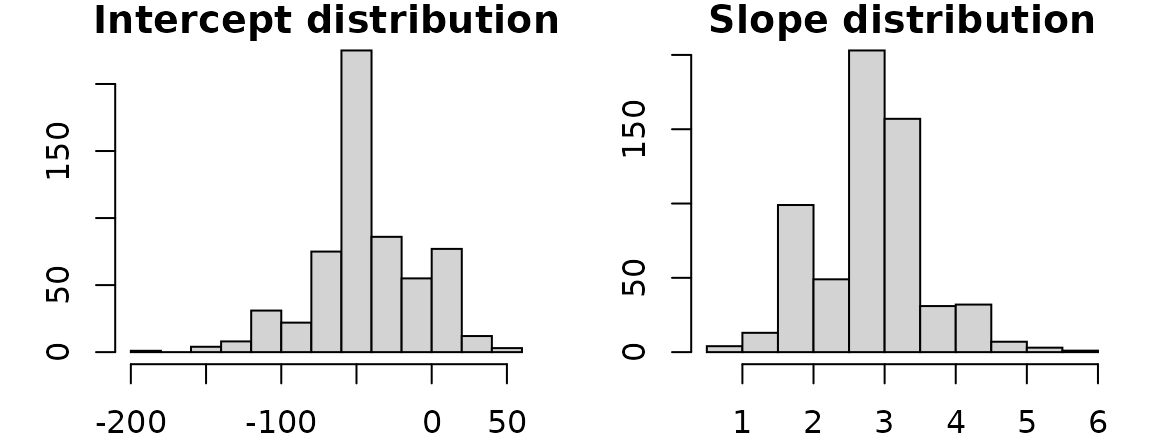
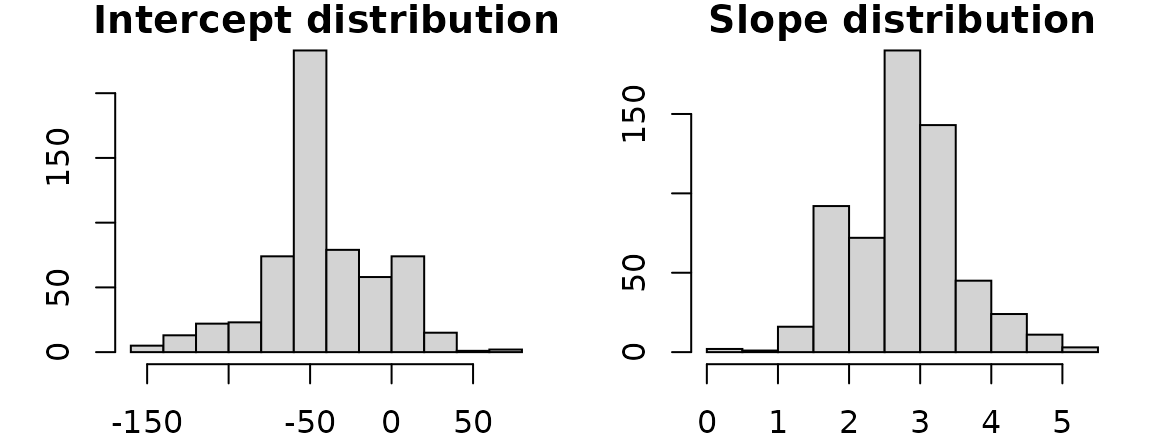
Built site for tukeyedar: 0.1.0@cc929da

diff --git a/articles/RLine.html b/articles/RLine.html
@@ -283,9 +283,9 @@ median(y_{l,m,r} - b * x_{l,m,r})
 <code class="sourceCode R"><span class="va">conf</span> <span class="op">&lt;-</span> <span class="fu"><a href="https://rdrr.io/r/base/t.html">t</a></span><span class="op">(</span><span class="fu"><a href="https://rdrr.io/r/base/data.frame.html">data.frame</a></span><span class="op">(</span>Intercept <span class="op">=</span> <span class="fu"><a href="https://rdrr.io/r/stats/quantile.html">quantile</a></span><span class="op">(</span><span class="va">bt</span><span class="op">[</span>,<span class="fl">1</span><span class="op">]</span>, p<span class="op">=</span><span class="fu"><a href="https://rdrr.io/r/base/c.html">c</a></span><span class="op">(</span><span class="fl">0.05</span>,<span class="fl">0.95</span><span class="op">)</span> <span class="op">)</span>,
                      Slope <span class="op">=</span> <span class="fu"><a href="https://rdrr.io/r/stats/quantile.html">quantile</a></span><span class="op">(</span><span class="va">bt</span><span class="op">[</span>,<span class="fl">2</span><span class="op">]</span>, p<span class="op">=</span><span class="fu"><a href="https://rdrr.io/r/base/c.html">c</a></span><span class="op">(</span><span class="fl">0.05</span>,<span class="fl">0.95</span><span class="op">)</span> <span class="op">)</span><span class="op">)</span><span class="op">)</span>
 <span class="va">conf</span>
-<span class="co">#&gt;                    5%       95%</span>
-<span class="co">#&gt;  Intercept -76.030968 10.662899</span>
-<span class="co">#&gt;  Slope       1.708908  3.541239</span></code></pre></div>
+<span class="co">#&gt;                   5%       95%</span>
+<span class="co">#&gt;  Intercept -72.90568 14.290710</span>
+<span class="co">#&gt;  Slope       1.59047  3.486593</span></code></pre></div>
 </div>
 <div id="resampling-the-x-y-paired-values" class="section level3">
 <h3 class="hasAnchor">
@@ -311,8 +311,8 @@ median(y_{l,m,r} - b * x_{l,m,r})
                      Slope <span class="op">=</span> <span class="fu"><a href="https://rdrr.io/r/stats/quantile.html">quantile</a></span><span class="op">(</span><span class="va">bt</span><span class="op">[</span>,<span class="fl">2</span><span class="op">]</span>, p<span class="op">=</span><span class="fu"><a href="https://rdrr.io/r/base/c.html">c</a></span><span class="op">(</span><span class="fl">0.05</span>,<span class="fl">0.95</span><span class="op">)</span> <span class="op">)</span><span class="op">)</span><span class="op">)</span>
 <span class="va">conf</span>
 <span class="co">#&gt;                     5%       95%</span>
-<span class="co">#&gt;  Intercept -112.386804 15.031034</span>
-<span class="co">#&gt;  Slope        1.643678  4.254098</span></code></pre></div>
+<span class="co">#&gt;  Intercept -109.442791 14.987544</span>
+<span class="co">#&gt;  Slope        1.643678  4.187705</span></code></pre></div>
 </div>
 </div>
 <div id="references" class="section level1">
